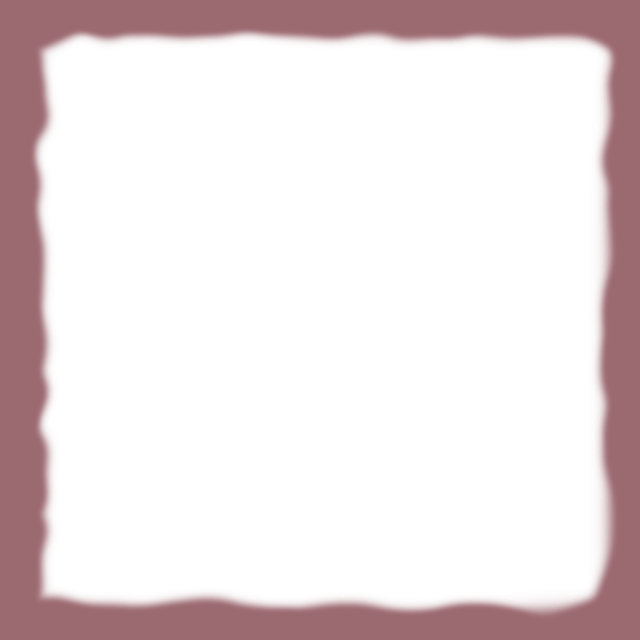
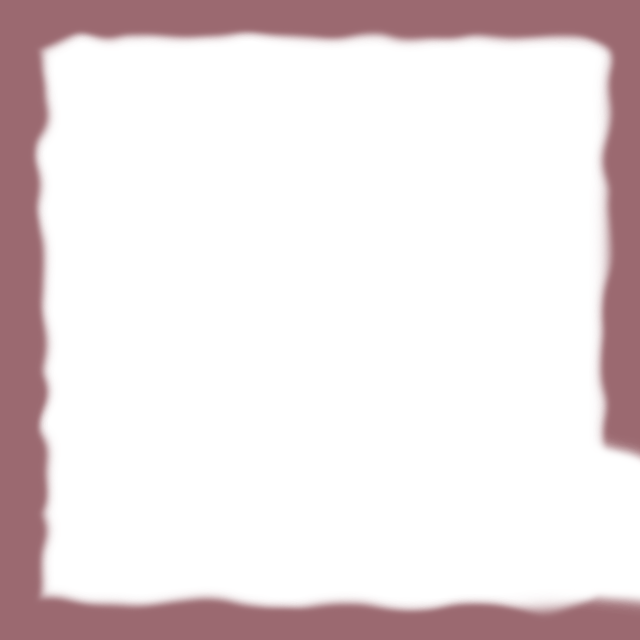
better ending

Changed region(s): [[0.9062, 0.6875, 1.0, 0.9688]]

diff --git a/CC24/src/main.ts b/CC24/src/main.ts
@@ -16,6 +16,7 @@ const TEXTURES = {
   boat: twgl.createTexture(gl, { src: await loadImage('boat') }),
   errors: twgl.createTexture(gl, { src: await loadImage('errors') }),
   back: twgl.createTexture(gl, { src: await loadImage('back') }),
+  back_extra: twgl.createTexture(gl, { src: await loadImage('back_extra') }),
   ending: twgl.createTexture(gl, { src: await loadImage('ending') }),
 }
 
@@ -105,7 +106,7 @@ class BoardState {
     }
 
     const boat_pos_visual = on_win_anim
-      ? this.boat_pos.addX(-2 * anim_t * (.25 - anim_t)).add(Vec2.both(1)).scale(TILE_SIDE)
+      ? this.boat_pos.addX(-2.5 * anim_t * (.25 - anim_t)).add(Vec2.both(1)).scale(TILE_SIDE)
       // ? subdivideT(anim_t, [
       //   [0, 0.4, (t) => {
       //     return this.boat_pos.addX( -.1 * t * (1 - t) / .25 );
@@ -183,6 +184,17 @@ class BoardState {
       resolution: [canvas_gl.width, canvas_gl.height],
       u_texture: TEXTURES.back
     });
+
+    if (window.innerWidth >= window.innerHeight) {
+      vanillaSprites.add({
+        transform: new Transform(Vec2.zero, Vec2.both(640), Vec2.zero, 0),
+        uvs: Transform.identity,
+      });
+      vanillaSprites.end({
+        resolution: [canvas_gl.width, canvas_gl.height],
+        u_texture: TEXTURES.back_extra
+      });
+    }
   }
 
   errorAtHor(col: number, bottom_row: number): boolean {
@@ -505,7 +517,7 @@ function every_frame(cur_timestamp: number) {
       }
     }
   } else {
-    anim_t += delta_time / (on_win_anim ? 1 : turn_duration);
+    anim_t += delta_time / (on_win_anim ? 1.5 : turn_duration);
     anim_t = clamp01(anim_t);
   }
   if (input.keyboard.wasPressed(KeyCode.KeyZ)) {
